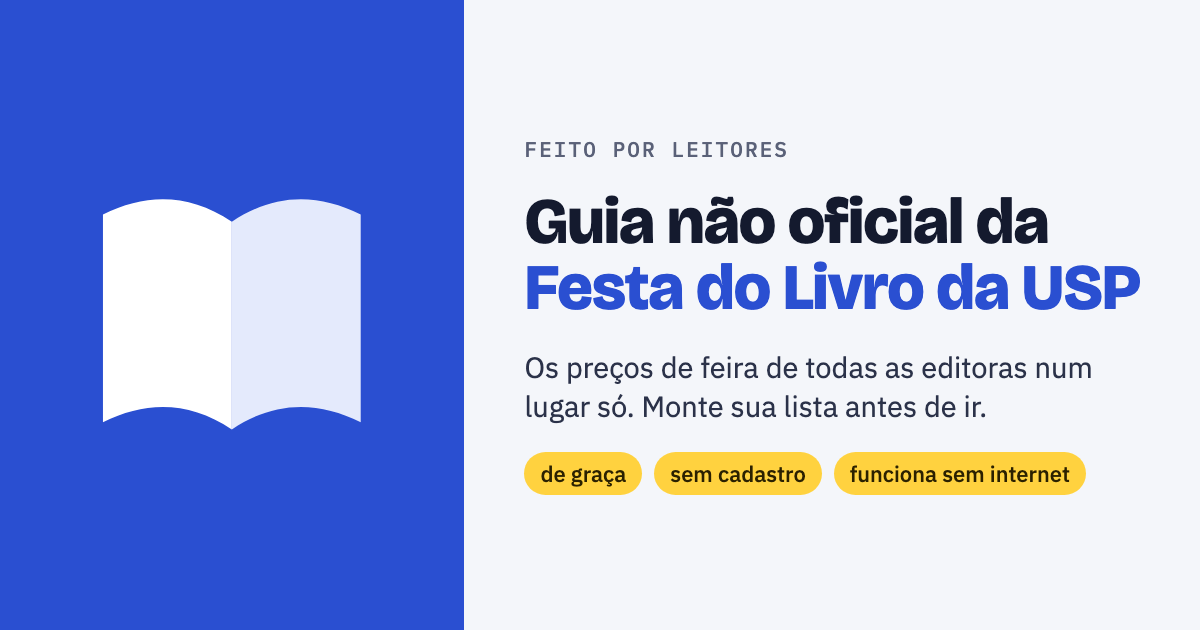
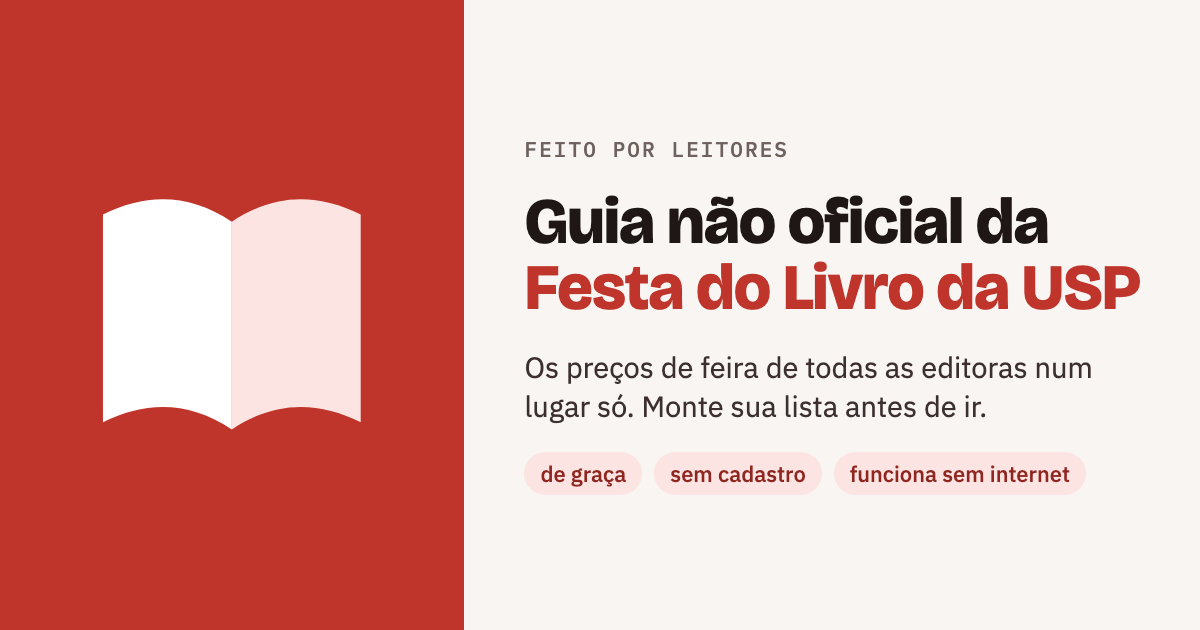
Troca o azul por vermelho no site, no ícone e na prévia do link
A cor principal passa a ser o vermelho #c0352b, com fundos e textos
neutros puxados para o quente. O selo de desconto e as etiquetas da
prévia deixam o amarelo e ficam rosados: vermelho com amarelo lembrava
marca de fast-food. No tema escuro, o destaque é um coral (#ff8a7f).
Todos os pares de texto e fundo ficam acima de 4,5:1 nos dois temas.

O ícone fica só com o livro, igual ao da prévia, sem a etiqueta amarela.
Um teste novo garante que a cor da barra do navegador, o manifesto e o
ícone usam a mesma cor de destaque da página.

O endereço da imagem da prévia ganha "?versao=2" porque LinkedIn e
WhatsApp guardam a imagem pelo endereço e já tinham visto a versão azul.

diff --git a/site/index.html b/site/index.html
@@ -11,14 +11,14 @@
 <meta name="viewport" content="width=device-width, initial-scale=1, viewport-fit=cover">
 <title>Guia não oficial da Festa do Livro da USP</title>
 <meta name="description" content="Guia não oficial da Festa do Livro da USP, feito por leitores: busque nos preços de feira de todas as editoras e monte sua lista de compras. A lista fica salva só no seu aparelho.">
-<meta name="theme-color" content="#2a4fd1">
+<meta name="theme-color" content="#c0352b">
 <meta property="og:type" content="website">
 <meta property="og:locale" content="pt_BR">
 <meta property="og:site_name" content="Guia não oficial da Festa do Livro da USP">
 <meta property="og:title" content="Guia não oficial da Festa do Livro da USP">
 <meta property="og:description" content="Os preços de feira de todas as editoras num lugar só. Monte sua lista antes de ir: de graça, sem cadastro e funciona sem internet.">
 <meta property="og:url" content="https://jvlcapi.github.io/guia-nao-oficial-festa-do-livro/">
-<meta property="og:image" content="https://jvlcapi.github.io/guia-nao-oficial-festa-do-livro/link-preview.png">
+<meta property="og:image" content="https://jvlcapi.github.io/guia-nao-oficial-festa-do-livro/link-preview.png?versao=2">
 <meta property="og:image:width" content="1200">
 <meta property="og:image:height" content="630">
 <meta property="og:image:alt" content="Guia não oficial da Festa do Livro da USP: os preços de feira de todas as editoras num lugar só.">
@@ -38,16 +38,16 @@ img { max-width: 100%; }
 
 /* Layout: price-list sheet — two tabs (my list / the fair's catalog); summary strip, bar panels and per-publisher tables */
 :root {
-  --bg: #f4f6fa;
+  --bg: #f8f5f3;
   --surface: #ffffff;
-  --fg: #141a2e;
-  --muted: #5a6178;
-  --line: #dde2ec;
-  --accent: #2a4fd1;
+  --fg: #1f1716;
+  --muted: #6e625e;
+  --line: #e9e0dd;
+  --accent: #c0352b;
   --accent-ink: #ffffff;
-  --accent-soft: #e4eafc;
-  --stamp: #ffd23f;
-  --stamp-ink: #2b2100;
+  --accent-soft: #fbe4e1;
+  --stamp: #f9d4ce;
+  --stamp-ink: #8f2620;
   --good: #11804f;
   --warn: #b25b00;
   --danger: #c0352b;
@@ -59,16 +59,16 @@ img { max-width: 100%; }
 }
 @media (prefers-color-scheme: dark) {
   :root:not([data-theme="light"]) {
-    --bg: #0e111b; --surface: #161a28; --fg: #e8ebf5; --muted: #9aa1b8; --line: #2a3045;
-    --accent: #7f97ff; --accent-ink: #0e111b; --accent-soft: #232c4d; --stamp: #e9c43c; --stamp-ink: #221a00;
+    --bg: #151011; --surface: #1f1819; --fg: #f2eae9; --muted: #b3a5a3; --line: #3b2e2e;
+    --accent: #ff8a7f; --accent-ink: #1a0f10; --accent-soft: #4a2422; --stamp: #f2b8b0; --stamp-ink: #3d100c;
     --good: #4cc98c; --warn: #f0a050; --danger: #ff7b70; color-scheme: dark;
     --source-1: #3987e5; --source-2: #d95926; --source-3: #199e70; --source-4: #c98500;
     --source-5: #d55181; --source-6: #008300; --source-7: #9085e9; --source-8: #e66767;
   }
 }
 :root[data-theme="dark"] {
-  --bg: #0e111b; --surface: #161a28; --fg: #e8ebf5; --muted: #9aa1b8; --line: #2a3045;
-  --accent: #7f97ff; --accent-ink: #0e111b; --accent-soft: #232c4d; --stamp: #e9c43c; --stamp-ink: #221a00;
+  --bg: #151011; --surface: #1f1819; --fg: #f2eae9; --muted: #b3a5a3; --line: #3b2e2e;
+  --accent: #ff8a7f; --accent-ink: #1a0f10; --accent-soft: #4a2422; --stamp: #f2b8b0; --stamp-ink: #3d100c;
   --good: #4cc98c; --warn: #f0a050; --danger: #ff7b70; color-scheme: dark;
   --source-1: #3987e5; --source-2: #d95926; --source-3: #199e70; --source-4: #c98500;
   --source-5: #d55181; --source-6: #008300; --source-7: #9085e9; --source-8: #e66767;

diff --git a/tests/test_site_assembly.py b/tests/test_site_assembly.py
@@ -51,7 +51,8 @@ def meta_content(page: str, property_name: str) -> str:
 
 def link_preview_image_name() -> str:
     page = (ROOT / "site" / "index.html").read_text()
-    return meta_content(page, "og:image").removeprefix(SITE_ADDRESS)
+    image_address_without_cache_version = meta_content(page, "og:image").split("?")[0]
+    return image_address_without_cache_version.removeprefix(SITE_ADDRESS)
 
 
 def test_link_preview_image_uses_the_full_site_address():
@@ -75,3 +76,11 @@ def test_link_preview_declares_the_real_image_size():
 
 def test_link_preview_image_is_small_enough_for_whatsapp():
     assert (ROOT / "site" / link_preview_image_name()).stat().st_size < WHATSAPP_PREVIEW_LIMIT_BYTES
+
+
+def test_brand_color_is_the_same_in_page_icon_and_manifest():
+    page = (ROOT / "site" / "index.html").read_text()
+    accent = re.search(r"--accent: (#[0-9a-f]{6});", page).group(1)
+    manifest = json.loads((ROOT / "site" / "manifest.webmanifest").read_text())
+    icon_background = re.search(r'<rect [^>]*fill="(#[0-9a-f]{6})"', (ROOT / "site" / "icon.svg").read_text()).group(1)
+    assert {meta_content(page, "theme-color"), manifest["theme_color"], icon_background} == {accent}

diff --git a/README.md b/README.md
@@ -13,7 +13,7 @@ A searchable price catalog and shopping-list planner for the [Festa do Livro da 
 | Prices checked against the source PDF | every book with an ISBN; 158 flagged for review |
 | Backend, accounts, API keys | **none** |
 | Hosting cost | **zero** (GitHub Pages + GitHub Actions) |
-| Unique visitors, one per browser | [![Unique visitors](https://img.shields.io/badge/dynamic/json?url=https%3A%2F%2Fabacus.jasoncameron.dev%2Fget%2Fguia-nao-oficial-festa-do-livro%2Fvisitantes&query=%24.value&label=unique%20visitors&color=2a4fd1&cacheSeconds=3600)](https://jvlcapi.github.io/guia-nao-oficial-festa-do-livro/) |
+| Unique visitors, one per browser | [![Unique visitors](https://img.shields.io/badge/dynamic/json?url=https%3A%2F%2Fabacus.jasoncameron.dev%2Fget%2Fguia-nao-oficial-festa-do-livro%2Fvisitantes&query=%24.value&label=unique%20visitors&color=c0352b&cacheSeconds=3600)](https://jvlcapi.github.io/guia-nao-oficial-festa-do-livro/) |
 
 Community project, not affiliated with Edusp or the University of São Paulo. Prices come from the lists publishers post on the official site and may change before the fair.
 

diff --git a/README.pt-BR.md b/README.pt-BR.md
@@ -4,7 +4,7 @@
 
 **Abra: https://jvlcapi.github.io/guia-nao-oficial-festa-do-livro/**
 
-[![Visitantes únicos do guia](https://img.shields.io/badge/dynamic/json?url=https%3A%2F%2Fabacus.jasoncameron.dev%2Fget%2Fguia-nao-oficial-festa-do-livro%2Fvisitantes&query=%24.value&label=visitantes%20%C3%BAnicos&color=2a4fd1&cacheSeconds=3600)](https://jvlcapi.github.io/guia-nao-oficial-festa-do-livro/)
+[![Visitantes únicos do guia](https://img.shields.io/badge/dynamic/json?url=https%3A%2F%2Fabacus.jasoncameron.dev%2Fget%2Fguia-nao-oficial-festa-do-livro%2Fvisitantes&query=%24.value&label=visitantes%20%C3%BAnicos&color=c0352b&cacheSeconds=3600)](https://jvlcapi.github.io/guia-nao-oficial-festa-do-livro/)
 
 Busque nos preços de feira de todas as editoras da [Festa do Livro da USP](https://festadolivro.edusp.com.br) e monte sua lista de compras antes de ir: total na feira, quanto você economiza sobre o preço de capa, gasto por editora e por gênero, orçamento e lista para compartilhar.
 
